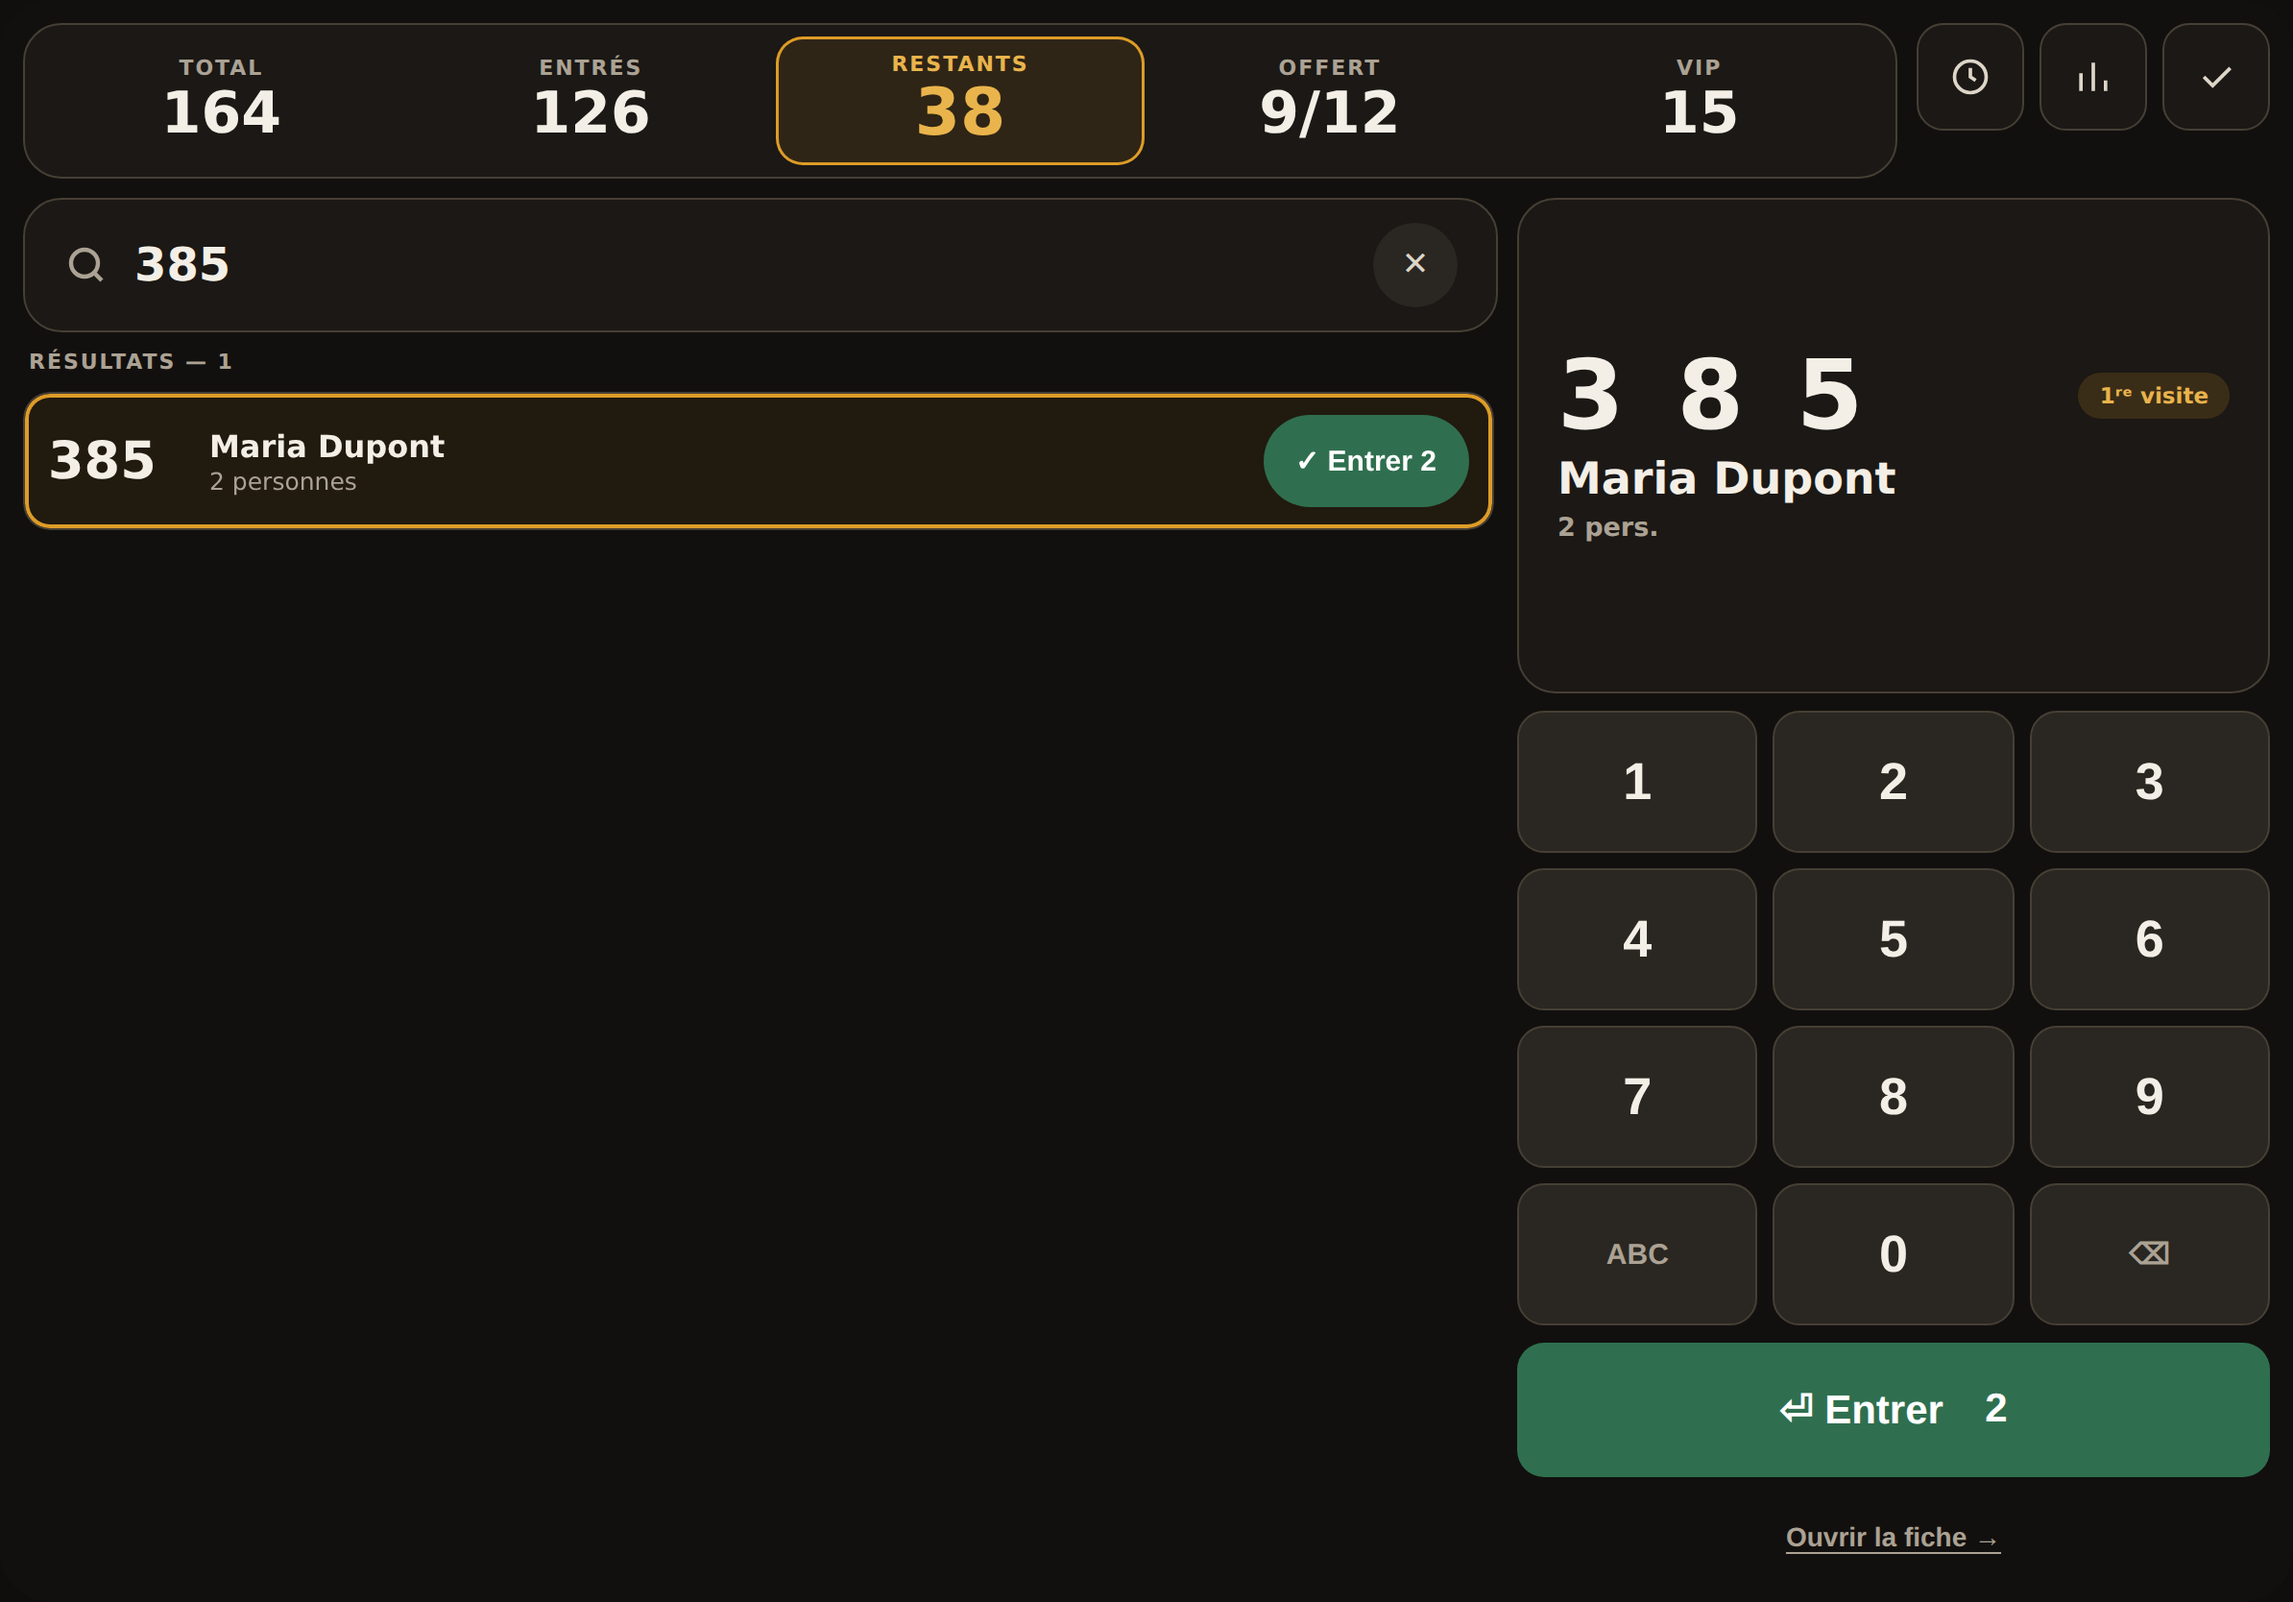
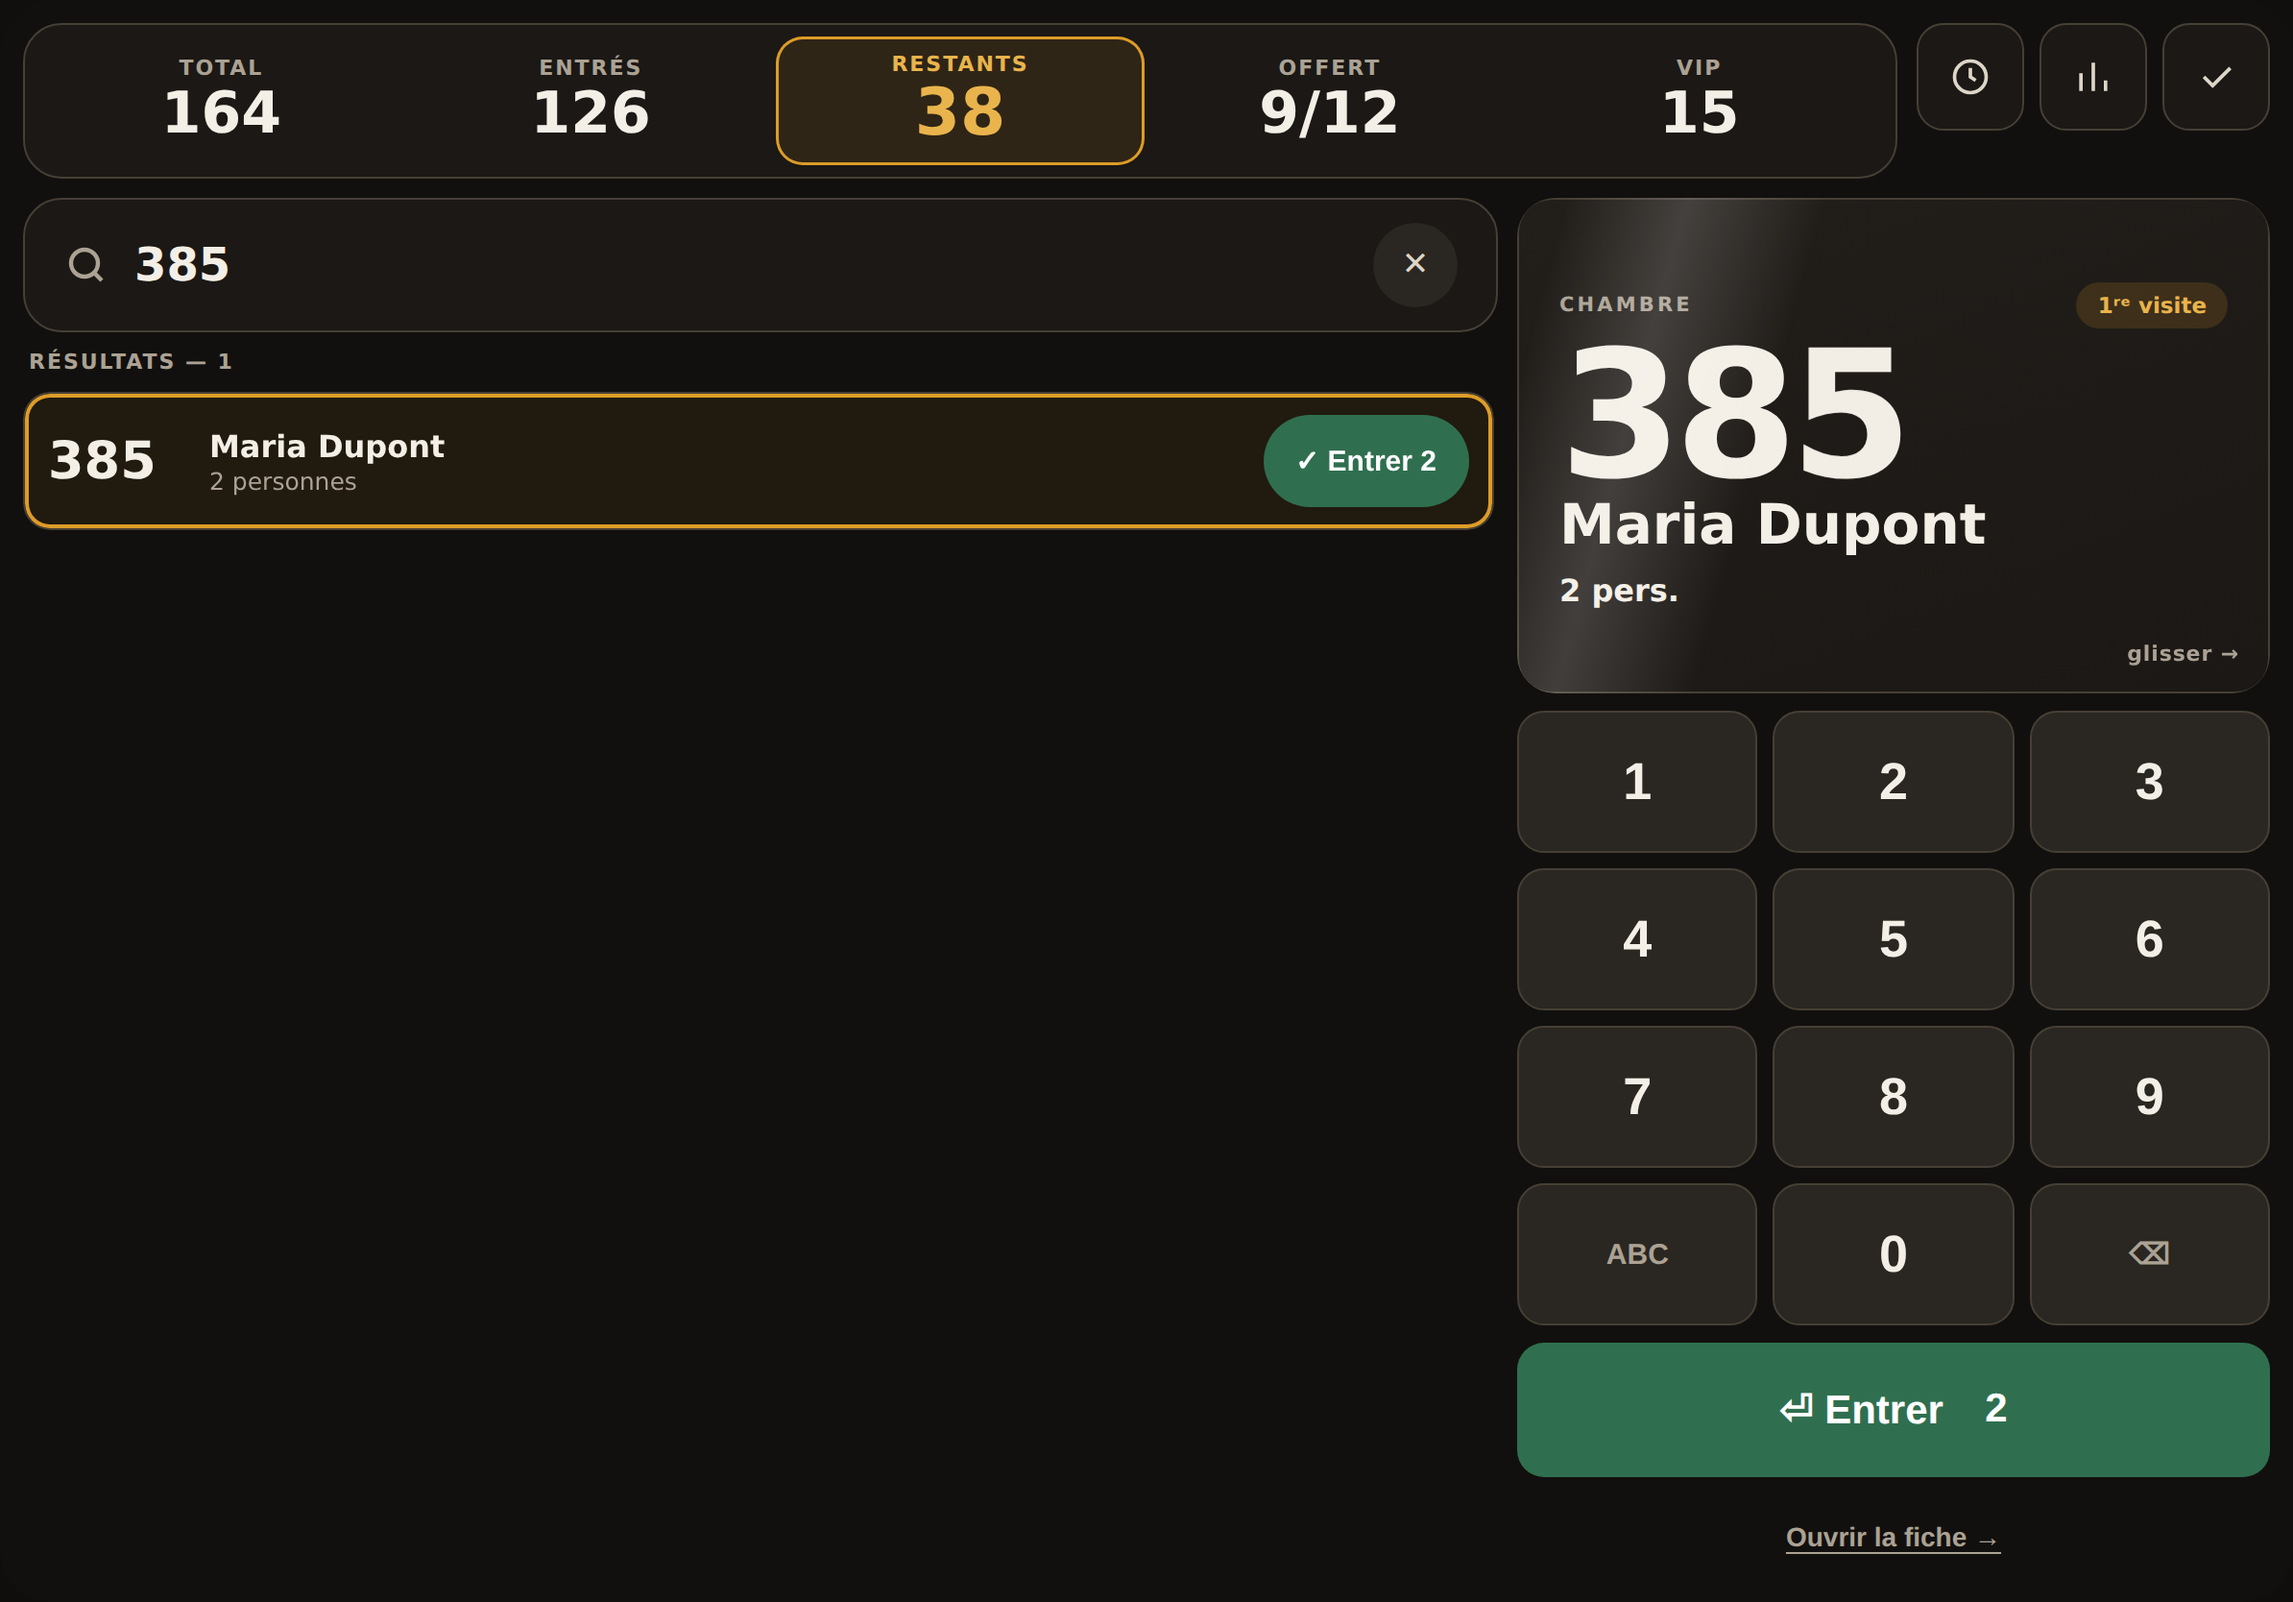
Search v2: rebuild the preview as a key card, and teach the checker gradients
The preview was a text block with letter-spaced digits. It is now a card:
digits together and tight at 92px, name at 29px, small-caps labels above
values (after Shangri-La Circle and Rivian's key card on Mobbin), and the
VIP variant reuses the check-in identity card's gold gradient so the two
screens read as the same object. Entry is a spring, each digit rolls in
staggered, and a single sheen sweeps the card once on match.

The card takes the same gesture as a row — swipe right finishes the room
and the card flies out, so the hand learns one rule for both surfaces.
The hint is hidden on cards where the gesture is deliberately disabled;
advertising an affordance that does nothing is worse than no hint.

The mockup contrast checker was reading backgroundColor only, so it saw
the gold gradient as transparent and reported white-on-gold as
white-on-white at 1.06:1. It now collects every gradient stop and asserts
the worst, which is what the main gate already did. With honest numbers
it found two real defects: white small text on the light gold stop at
3.8:1, and the tone badges carrying washes tuned for the dark surface
onto a gold ground. Gradient deepened, badges moved to a dark scrim.

Claude-Session: https://claude.ai/code/session_01PvjN1yrwGssKpuvjG4vcfR

Changed region(s): [[0.6508, 0.1247, 0.8677, 0.4365], [0.8987, 0.1559, 0.9916, 0.2806], [0.9296, 0.4053, 0.9606, 0.4365]]

diff --git a/mockups/search-v2.html b/mockups/search-v2.html
@@ -157,6 +157,8 @@
   .detail{background:var(--surface);border:1px solid var(--key-edge);
     border-radius:var(--r-lg);padding:18px 20px;flex:1;min-height:158px;display:flex;
     flex-direction:column;justify-content:center;overflow:hidden}
+  .detail:has(.pcard){padding:0;background:none;border:none}
+  .detail .pcard{flex:1;display:flex;flex-direction:column;justify-content:center}
   .pad,.enter,.secondary{flex:none}
 
   /* idle — service clock */
@@ -171,6 +173,41 @@
   .svc{display:flex;justify-content:space-between;font-size:13.5px;color:var(--muted);
     font-weight:700}
   .svc b{color:var(--ink-2)}
+
+  /* searching — guest preview, treated as a key card rather than a text block.
+     Small-caps labels over large values (Shangri-La Circle), and the VIP
+     variant reuses the exact gold gradient from the check-in identity card so
+     the two screens read as the same object. */
+  .pcard{position:relative;overflow:hidden;border-radius:18px;padding:20px 22px;
+    background:linear-gradient(158deg,var(--surface-2),var(--surface));
+    box-shadow:inset 0 0 0 1px var(--key-edge);
+    animation:cardIn .34s cubic-bezier(.2,.9,.25,1)}
+  .pcard.vip{background:linear-gradient(135deg,#8E520C,#9A6212 48%,#7E480C);
+    box-shadow:0 16px 44px -14px rgba(120,74,12,.55)}
+  .pcard.vip,.pcard.vip .lab-mini{color:#fff}
+  .pcard::after{content:"";position:absolute;inset:0;pointer-events:none;
+    background:linear-gradient(105deg,transparent 32%,rgba(255,255,255,.16) 46%,transparent 62%);
+    transform:translateX(-130%);animation:sheen 1.05s .12s ease-out}
+  @keyframes sheen{to{transform:translateX(130%)}}
+  @keyframes cardIn{from{opacity:0;transform:translateY(9px) scale(.985)}to{opacity:1;transform:none}}
+
+  .lab-mini{font-size:10.5px;letter-spacing:.15em;text-transform:uppercase;
+    font-weight:800;color:var(--muted)}
+  .roomnum{display:flex;font-size:92px;font-weight:800;letter-spacing:-.045em;
+    line-height:.86;font-variant-numeric:tabular-nums;margin:6px 0 2px}
+  .roomnum.txt{font-size:44px;letter-spacing:-.02em;line-height:1}
+  .digit{display:inline-block;animation:rollIn .30s cubic-bezier(.2,.9,.25,1) backwards}
+  @keyframes rollIn{from{opacity:0;transform:translateY(.34em) scale(.86)}to{opacity:1;transform:none}}
+  .pname{font-size:29px;font-weight:700;line-height:1.06;white-space:nowrap;
+    overflow:hidden;text-overflow:ellipsis}
+  .pmeta{display:flex;gap:7px;align-items:center;flex-wrap:wrap;margin-top:9px}
+  /* On the gold card the tinted washes are the wrong ground entirely — they
+     were tuned against the dark neutral surface. A dark scrim with white text
+     is what the check-in identity card already does for the same reason. */
+  .pcard.vip .who-badge,.pcard.vip .tag{background:rgba(0,0,0,.34);color:#fff}
+  .pcard .swipehint{position:absolute;right:16px;bottom:14px;font-size:11px;
+    font-weight:800;color:var(--muted);letter-spacing:.04em}
+  .pcard.vip .swipehint{color:rgba(255,255,255,.92)}
 
   /* searching — guest preview */
   .typed{font-size:50px;font-weight:800;letter-spacing:.10em;font-variant-numeric:tabular-nums;
@@ -361,13 +398,19 @@ var render = function(){
   if(!typed){
     el("detail").innerHTML = serviceBox();
   } else if(hit){
+    const digits = hit.r.split("").map((d,i)=>
+      `<span class="digit" style="animation-delay:${i*55}ms">${d}</span>`).join("");
     el("detail").innerHTML = `
-      <div class="prow">
-        <div class="typed">${isNum(typed)?typed.split("").join(" "):typed}</div>
-        ${whoBadge(hit)}
-      </div>
-      <div class="dname">${hit.n}</div>
-      <div class="dsub"><b>${hit.p} pers.</b> ${tagsFor(hit)}</div>`;
+      <div class="pcard ${hit.vip?"vip":""}" id="pcard">
+        <div class="prow">
+          <span class="lab-mini">Chambre</span>
+          ${whoBadge(hit)}
+        </div>
+        <div class="roomnum">${digits}</div>
+        <div class="pname">${hit.n}</div>
+        <div class="pmeta"><b>${hit.p} pers.</b> ${tagsFor(hit)}</div>
+        ${(hit.alert||hit.pay) ? "" : `<span class="swipehint">glisser →</span>`}
+      </div>`;
   } else {
     el("detail").innerHTML = `
       <div class="typed">${isNum(typed)?typed.split("").join(" "):typed}</div>
@@ -444,6 +487,36 @@ function doEnter(){
    nothing. Every committed swipe is undoable. */
 const THRESHOLD = 88;
 let drag = null;
+
+/* The preview card takes the same gesture as a row, so the hand learns one
+   rule: swipe right finishes the room. On release the card flies out and the
+   guest lands in Récents (the Historique panel). */
+(function(){
+  let d=null;
+  const box = el("detail");
+  box.addEventListener("pointerdown",(e)=>{
+    const c = e.target.closest("#pcard"); if(!c) return;
+    const x = exact(); if(!x || x.alert || x.pay) return;
+    d = {c, x0:e.clientX, dx:0, x};
+    c.style.transition="none"; c.setPointerCapture(e.pointerId);
+  });
+  box.addEventListener("pointermove",(e)=>{
+    if(!d) return;
+    d.dx = e.clientX - d.x0;
+    d.c.style.transform = `translateX(${Math.max(-40,Math.min(200,d.dx))}px) rotate(${d.dx*0.012}deg)`;
+  });
+  const up = ()=>{
+    if(!d) return;
+    const {c,dx,x} = d; d=null;
+    c.style.transition="transform .3s cubic-bezier(.2,.85,.25,1), opacity .3s ease";
+    if(dx >= 92){
+      c.style.transform="translateX(420px) rotate(7deg)"; c.style.opacity="0";
+      setTimeout(()=>{ commit(x, x.p - (x.in||0), null); typed=""; el("q").value=""; render(); },230);
+    } else { c.style.transform="translateX(0)"; }
+  };
+  box.addEventListener("pointerup",up);
+  box.addEventListener("pointercancel",up);
+})();
 
 /* keep the visible field authoritative after programmatic changes */
 const _r = render; render = function(){ if(el("q").value !== typed) el("q").value = typed; _r(); };
